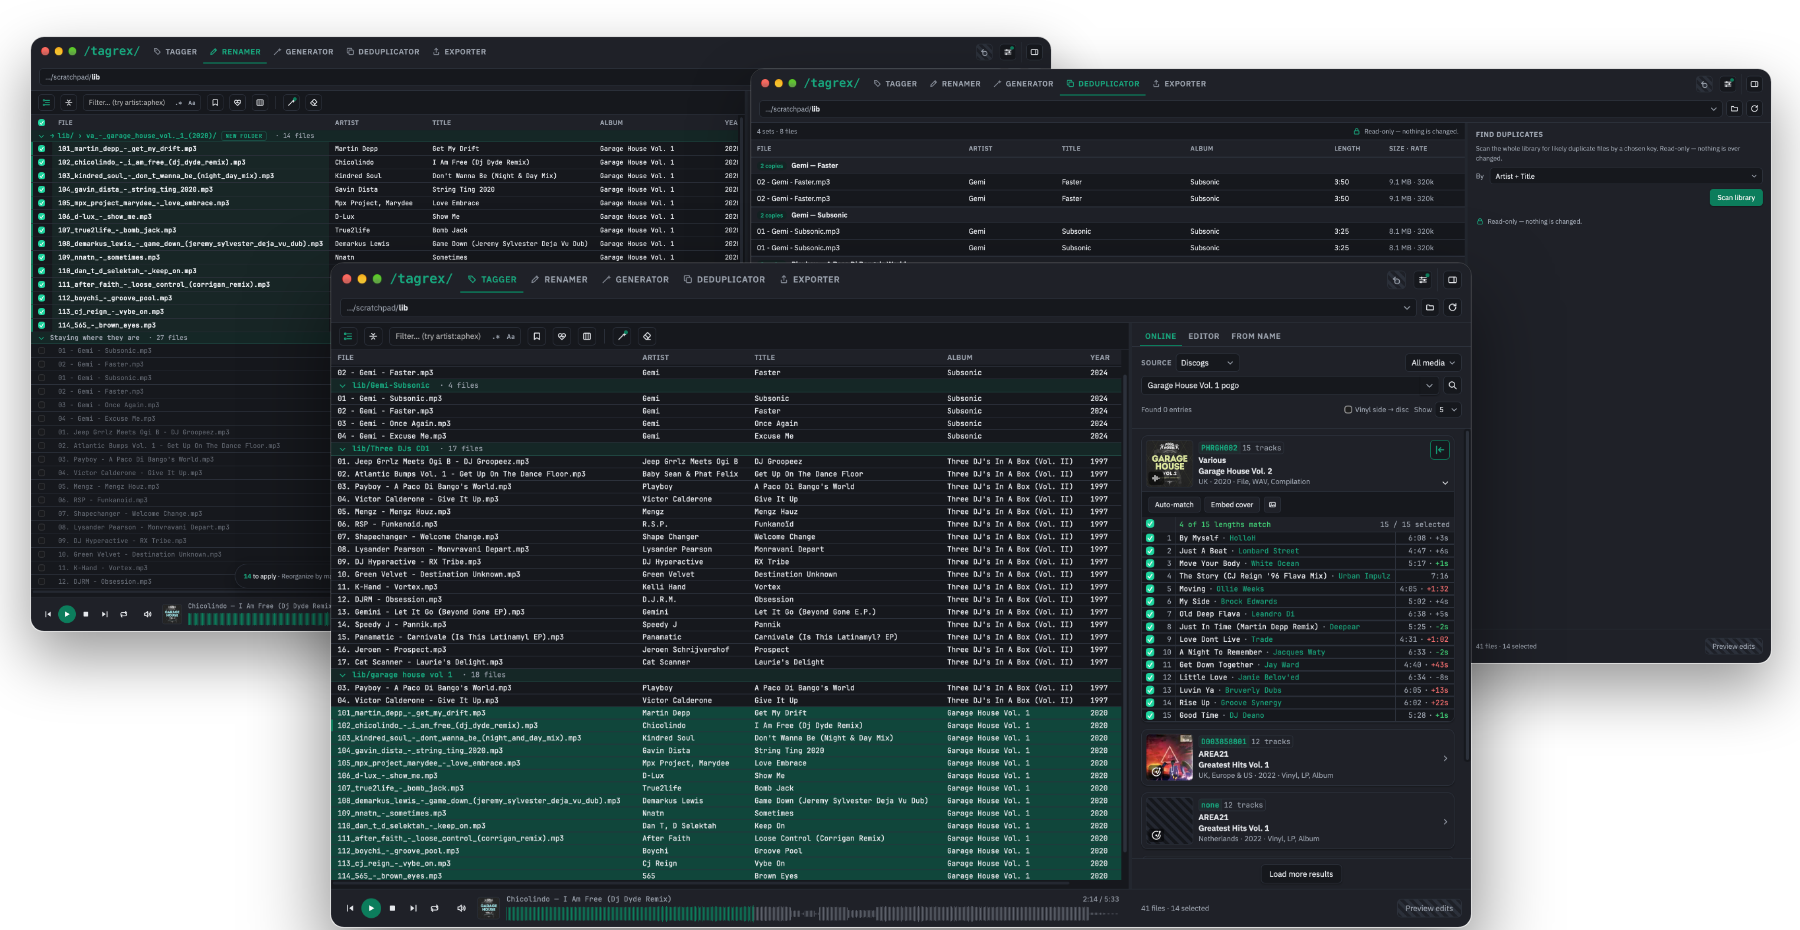
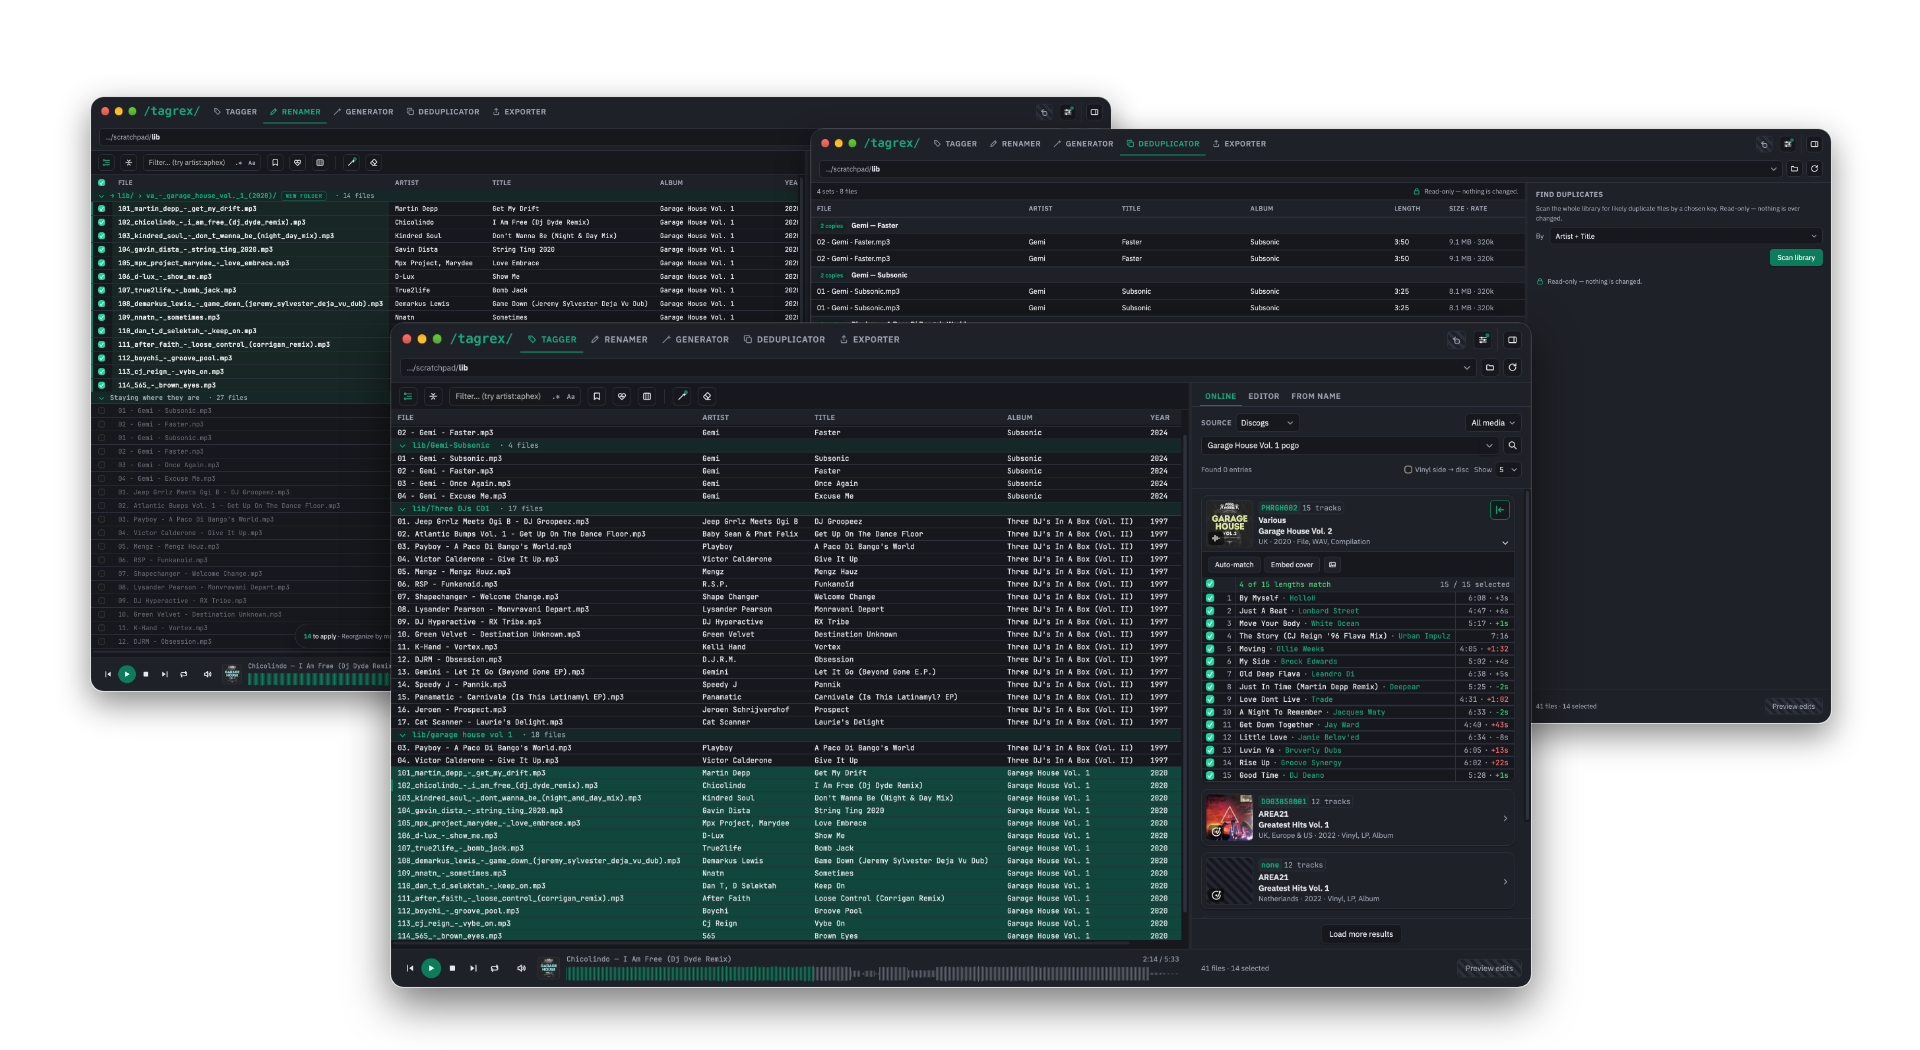
Soften the hero image shadows so they do not form a grey box
Closes #454

diff --git a/CHANGELOG.md b/CHANGELOG.md
@@ -68,6 +68,10 @@ and this project adheres to [Semantic Versioning](https://semver.org/).
   same three windows are shown in a dark and a light version, and the page
   picks the one that matches the viewer's theme
   ([#453](https://github.com/tagrex/tagrex/issues/453)).
+- **No grey box around the hero image.** Its shadows were cut off at the image
+  edge and showed as a hard-edged rectangle on a light page; they are softer
+  now and fade out inside the picture
+  ([#454](https://github.com/tagrex/tagrex/issues/454)).
 
 ### Fixed
 
